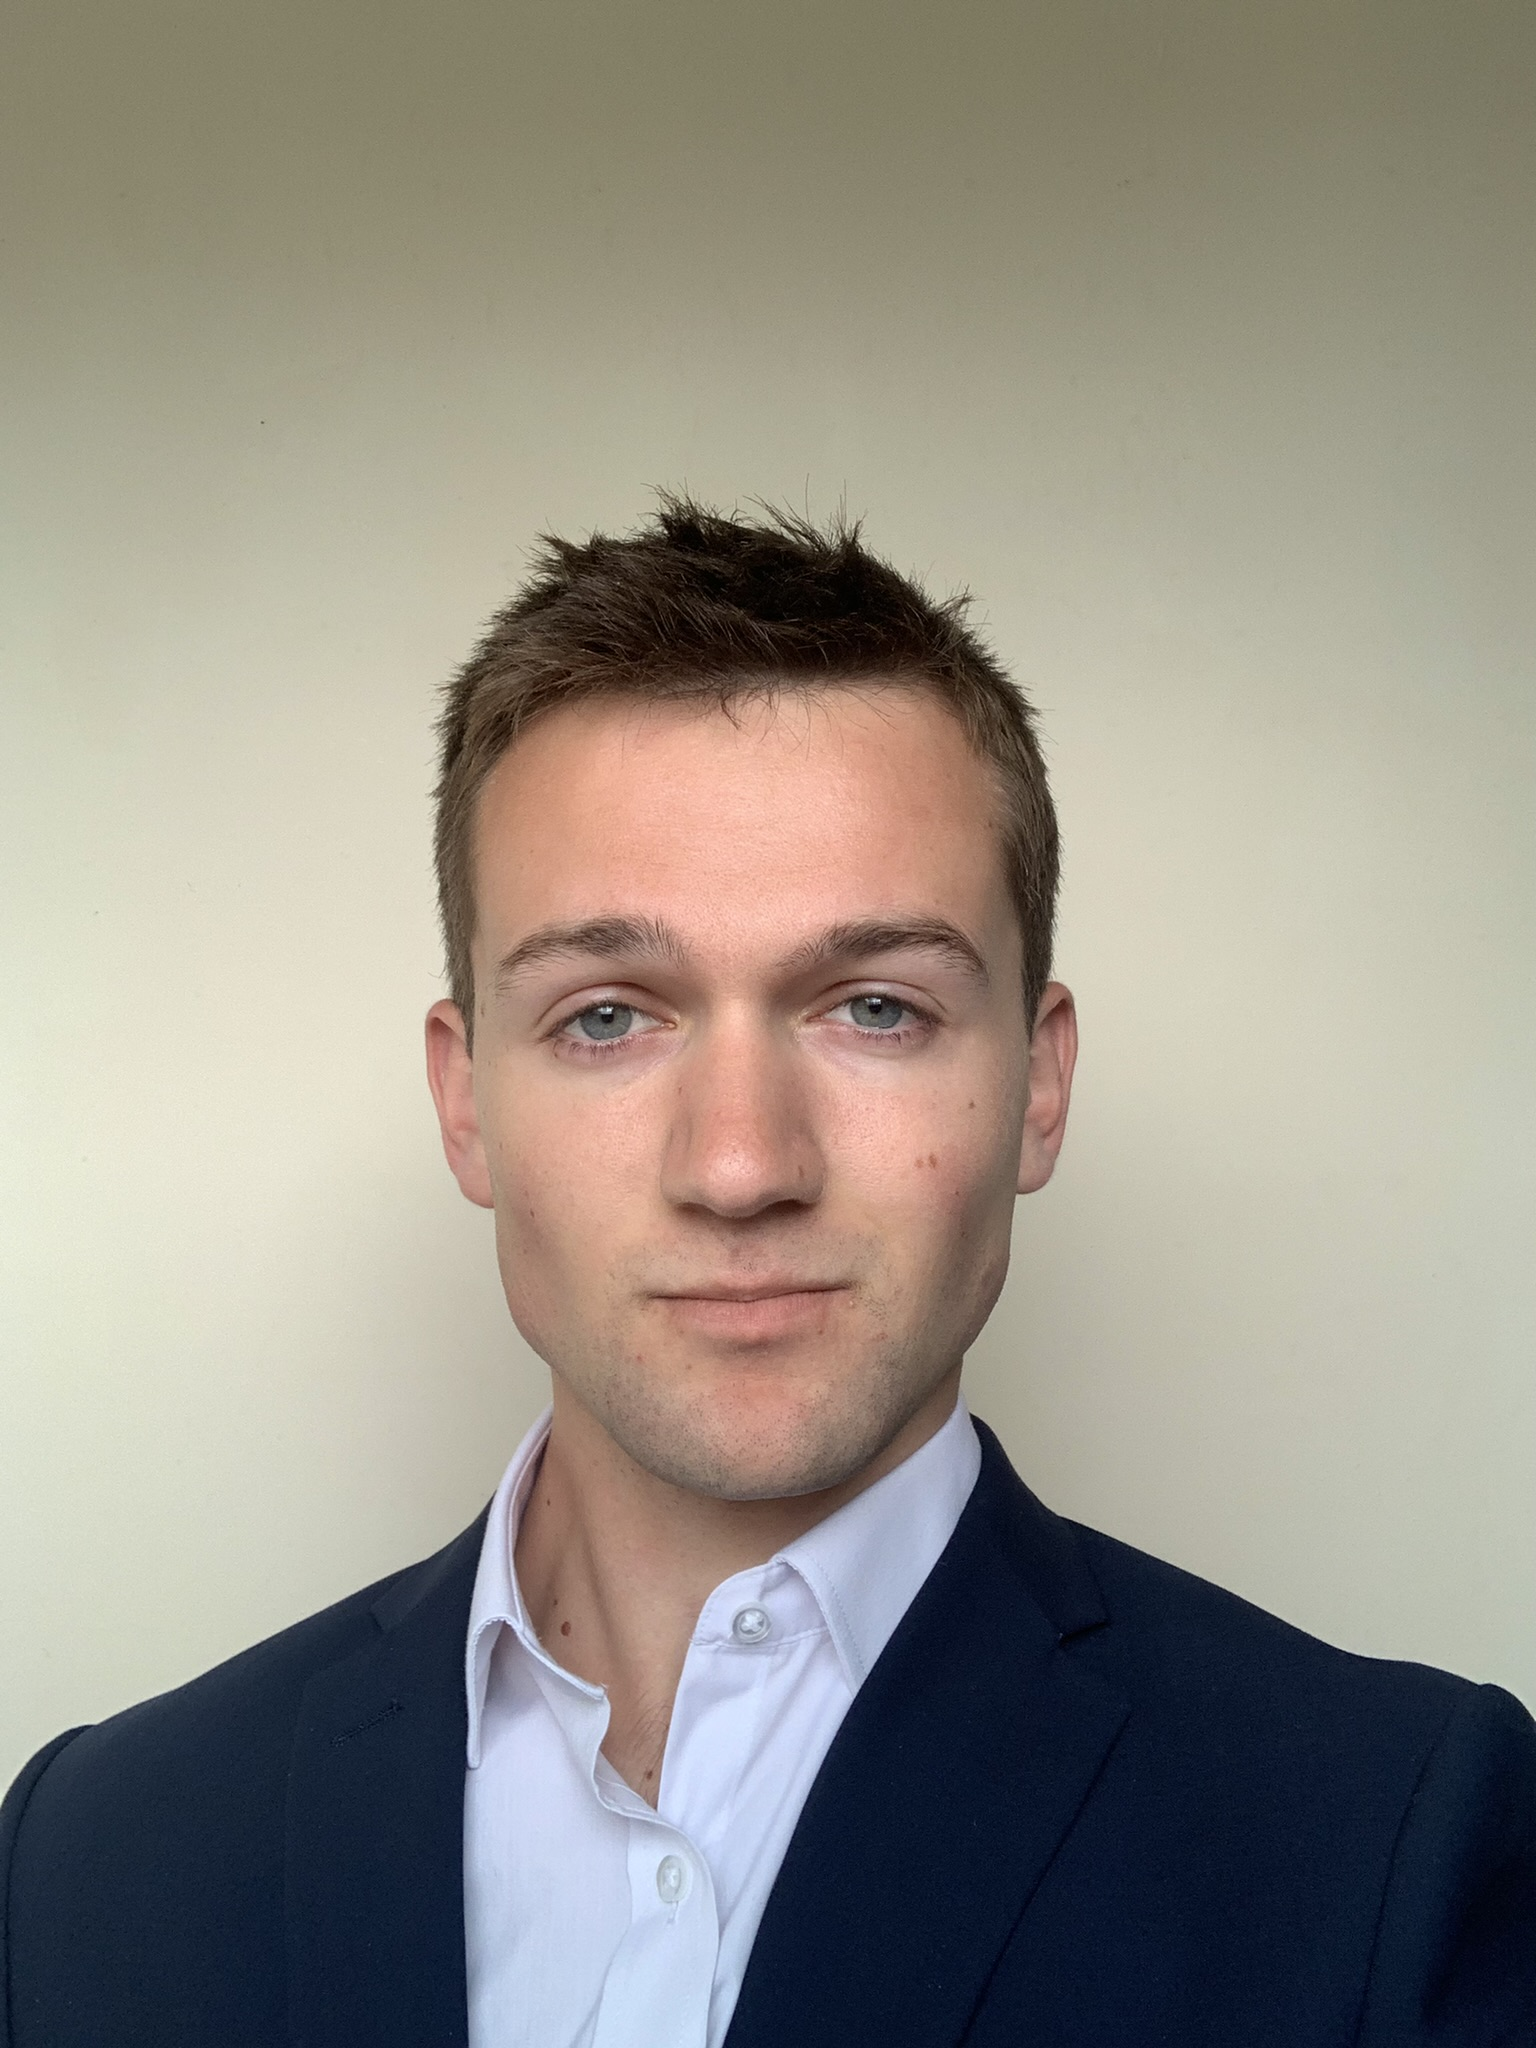
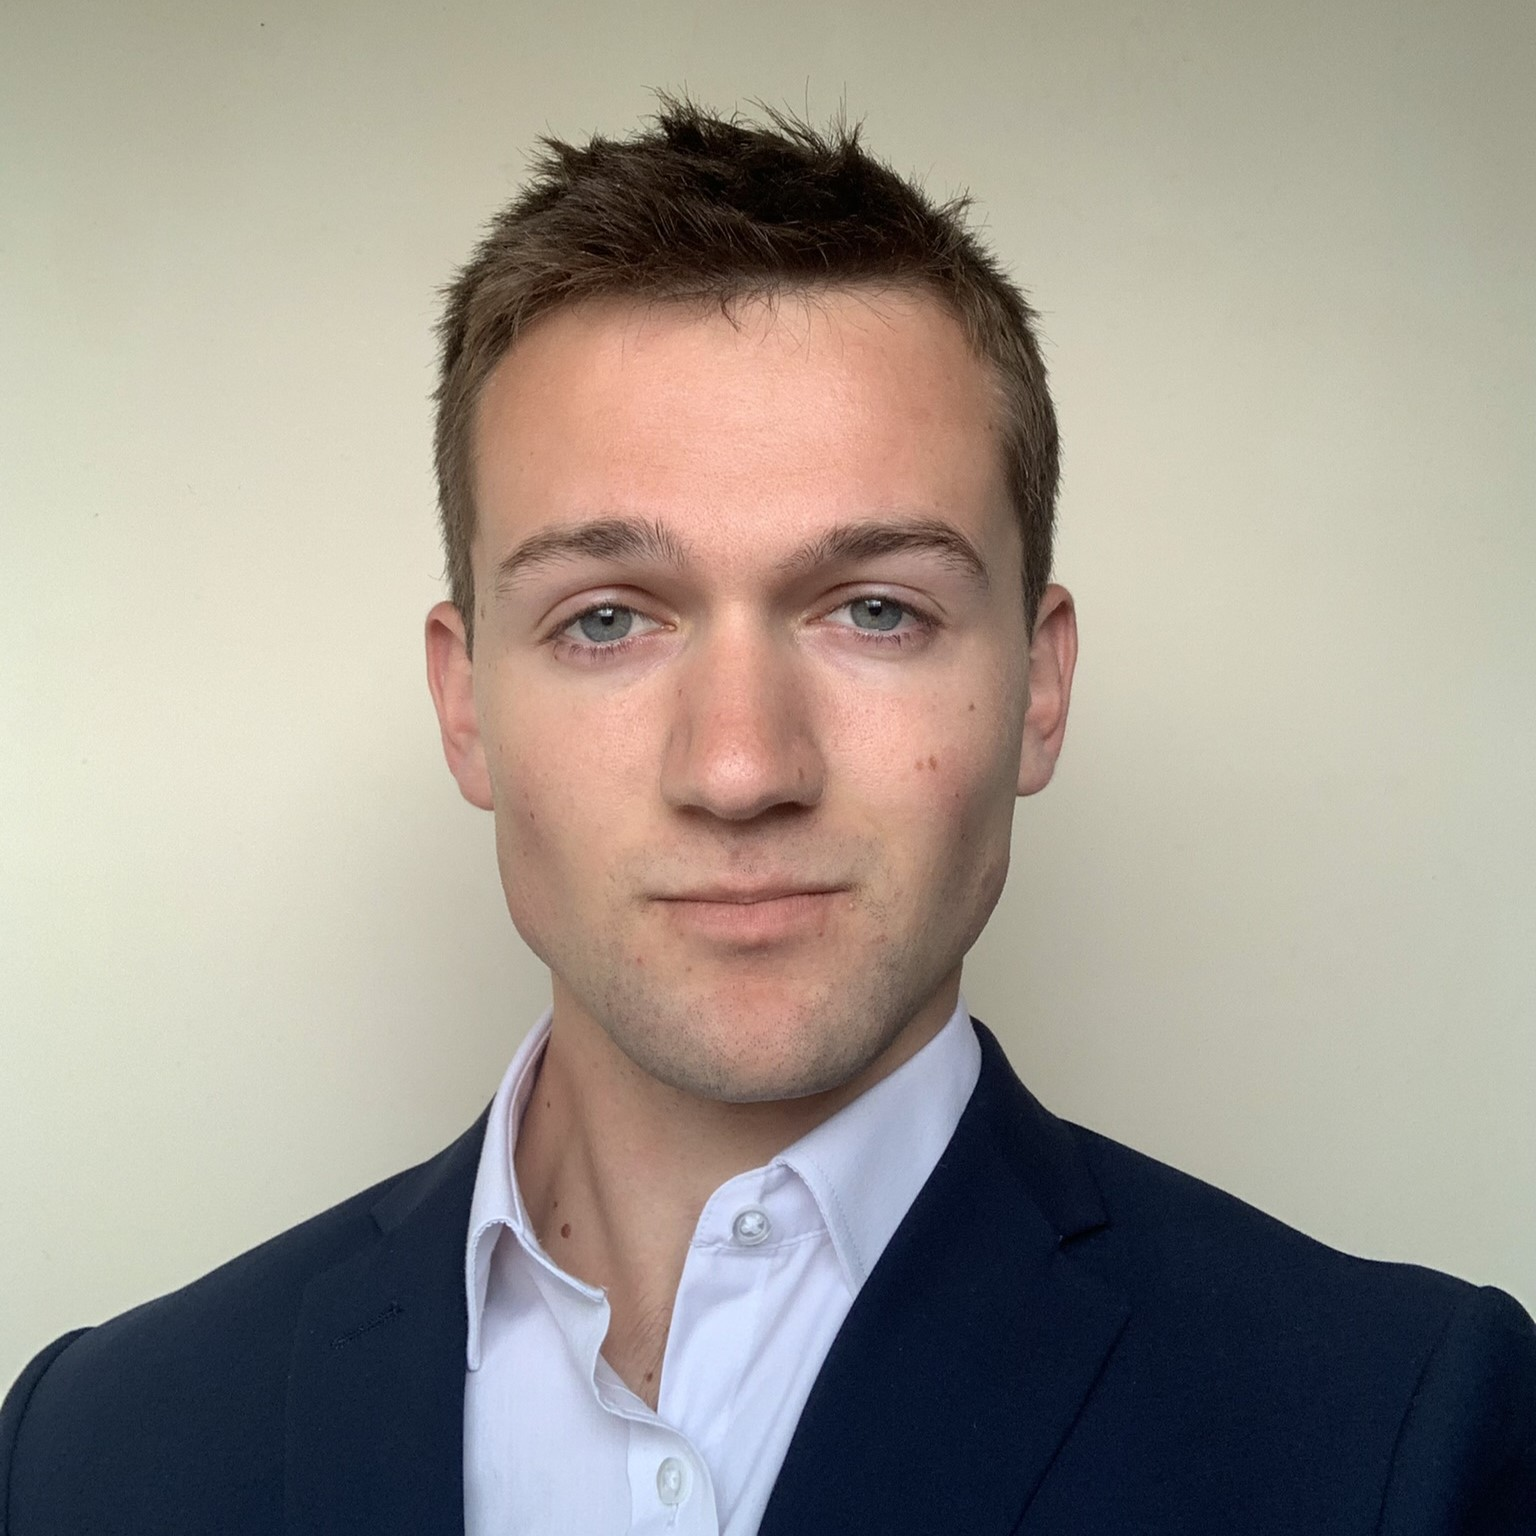
update

diff --git a/src/lib/Components/SocialMediaTags.svelte b/src/lib/Components/SocialMediaTags.svelte
@@ -1,13 +1,26 @@
 <script>
-	let size = 75;
+	let size =55;
 	let pad = 5;
+	let border = 4;
 </script>
 
-<div class="max-w-screen-2xl mx-auto">
+<div class="
+max-w-screen-sm 
+mx-auto 
+border-ridge
+border-r-{border}
+border-l-{border}
+border-t-{border}
+rounded-tr-full 
+rounded-tl-full
+bg-slate-200
+border-slate-700
+
+">
 
     <div class="flex items-center justify-center">
 	<a href="https://www.instagram.com/reuben.gibbons/?hl=en" class="p-{pad}">
-		<svg class="hover:animate-bounce" xmlns="http://www.w3.org/2000/svg" viewBox="0 0 3364.7 3364.7" width={size} height={size}
+		<svg xmlns="http://www.w3.org/2000/svg" viewBox="0 0 3364.7 3364.7" width={size} height={size}
 			><defs
 				><radialGradient id="0" cx="217.76" cy="3290.99" r="4271.92" gradientUnits="userSpaceOnUse"
 					><stop offset=".09" stop-color="#fa8f21" /><stop
@@ -36,8 +49,8 @@
 	<a
 		href="https://uk.linkedin.com/in/reuben-gibbons-5426a4149?trk=people-guest_people_search-card"
 		class="p-{pad}"
-	>
-		<svg class="hover:animate-bounce" height={size} width={size} xmlns="http://www.w3.org/2000/svg" viewBox="0 0 256 256"
+		>
+		<svg height={size} width={size} xmlns="http://www.w3.org/2000/svg" viewBox="0 0 256 256"
 			><g fill="none"
 				><path
 					d="M0 18.338C0 8.216 8.474 0 18.92 0h218.16C247.53 0 256 8.216 256 18.338v219.327C256 247.79 247.53 256 237.08 256H18.92C8.475 256 0 247.791 0 237.668V18.335z"
@@ -56,22 +69,19 @@
 			width={size}
 			height={size}
 			viewBox="126.445 2.281 589 589"
-			class="hover:animate-bounce"
 			><circle cx="420.945" cy="296.781" r="294.5" fill="#3c5a9a" /><path
 				d="M516.704 92.677h-65.239c-38.715 0-81.777 16.283-81.777 72.402.189 19.554 0 38.281 0 59.357H324.9v71.271h46.174v205.177h84.847V294.353h56.002l5.067-70.117h-62.531s.14-31.191 0-40.249c0-22.177 23.076-20.907 24.464-20.907 10.981 0 32.332.032 37.813 0V92.677h-.032z"
 				fill="#fff"
 			/></svg
 		>
 	</a>
-    <a href="https://github.com/BurwickGibbons" class="p-{pad}">
-        <svg class="hover:animate-bounce" height={size} width= {size} role="img" viewBox="0 0 24 24" xmlns="http://www.w3.org/2000/svg"><title>GitHub</title><path d="M12 .297c-6.63 0-12 5.373-12 12 0 5.303 3.438 9.8 8.205 11.385.6.113.82-.258.82-.577 0-.285-.01-1.04-.015-2.04-3.338.724-4.042-1.61-4.042-1.61C4.422 18.07 3.633 17.7 3.633 17.7c-1.087-.744.084-.729.084-.729 1.205.084 1.838 1.236 1.838 1.236 1.07 1.835 2.809 1.305 3.495.998.108-.776.417-1.305.76-1.605-2.665-.3-5.466-1.332-5.466-5.93 0-1.31.465-2.38 1.235-3.22-.135-.303-.54-1.523.105-3.176 0 0 1.005-.322 3.3 1.23.96-.267 1.98-.399 3-.405 1.02.006 2.04.138 3 .405 2.28-1.552 3.285-1.23 3.285-1.23.645 1.653.24 2.873.12 3.176.765.84 1.23 1.91 1.23 3.22 0 4.61-2.805 5.625-5.475 5.92.42.36.81 1.096.81 2.22 0 1.606-.015 2.896-.015 3.286 0 .315.21.69.825.57C20.565 22.092 24 17.592 24 12.297c0-6.627-5.373-12-12-12"/></svg>
+    <a href="https://github.com/BurwickGibbons" class="p-{pad} hover:animate-bounce">
+        <svg height={size} width= {size} role="img" viewBox="0 0 24 24" xmlns="http://www.w3.org/2000/svg"><title>GitHub</title><path d="M12 .297c-6.63 0-12 5.373-12 12 0 5.303 3.438 9.8 8.205 11.385.6.113.82-.258.82-.577 0-.285-.01-1.04-.015-2.04-3.338.724-4.042-1.61-4.042-1.61C4.422 18.07 3.633 17.7 3.633 17.7c-1.087-.744.084-.729.084-.729 1.205.084 1.838 1.236 1.838 1.236 1.07 1.835 2.809 1.305 3.495.998.108-.776.417-1.305.76-1.605-2.665-.3-5.466-1.332-5.466-5.93 0-1.31.465-2.38 1.235-3.22-.135-.303-.54-1.523.105-3.176 0 0 1.005-.322 3.3 1.23.96-.267 1.98-.399 3-.405 1.02.006 2.04.138 3 .405 2.28-1.552 3.285-1.23 3.285-1.23.645 1.653.24 2.873.12 3.176.765.84 1.23 1.91 1.23 3.22 0 4.61-2.805 5.625-5.475 5.92.42.36.81 1.096.81 2.22 0 1.606-.015 2.896-.015 3.286 0 .315.21.69.825.57C20.565 22.092 24 17.592 24 12.297c0-6.627-5.373-12-12-12"/></svg>
     </a>
 
     </div>
 </div>
 
 <style lang="postcss">
-	a:hover{ 
-		animation-delay: 1s;
-	}
+	
 </style>

diff --git a/src/lib/Components/Sidebar.svelte b/src/lib/Components/Sidebar.svelte
@@ -16,16 +16,16 @@
 </script>
 
 <aside
-	class="absolute w-full h-full bg-zinc-200 border-r-2 shadow-lg z-20 rounded-tr-lg "
+	class="absolute w-1/4 h-full border-r-2 shadow-lg z-20 "
 	class:open
 >
-	<div class="w-[110%] h-20 bg-slate-700 shadow-lg z-20 rounded-br-full" class:open />
+	<div class="w-[103.5%] h-20 shadow-md z-20 rounded-br-md border-r-8" class:open />
 	{#key open}
 		<nav class="p-5 px-20">
 			{#each links as { href, title }, index}
 				<a
-					in:fly={{ x: -200, duration: 200, delay: 200 + index * 200 }}
-					class="py-2 block"
+					in:fly={{ x: -200, duration: 200, delay: 500 + index * 200 }}
+					class="py-3 block"
 					{href}
 					on:click={() => (open = false)}>{title}</a
 				>
@@ -37,23 +37,34 @@
 <style lang="postcss">
 	a {
 		@apply text-2xl;
+		@apply translate-x-0;
 		@apply text-slate-700;
-		transition: font 0.5s;
+		transition: 500ms;
+		
+		
+		
 	}
 
 	a:hover {
 		@apply font-bold;
 		@apply text-slate-900;
-		@apply text-3xl;
+		@apply translate-x-5;
+		
 	}
 
 	aside {
 		left: -120%;
-		transition: left 0.5s ease-in-out;
+		transition: left .5s ease-in-out;
+		@apply bg-slate-200;
+		@apply border-slate-700;
+		
 	}
 	div {
 		left: -100%;
-		transition: left 0.5s ease-in;
+		transition: left .5s ease-in;
+		@apply bg-slate-700;
+		@apply border-slate-700;
+		
 	}
 
 	.open {

diff --git a/src/lib/Components/BackgroundPano.svelte b/src/lib/Components/BackgroundPano.svelte
@@ -10,27 +10,24 @@
 			alt="..."
 			class="shadow-2xl object-cover w-full border-b-4 border-slate-700"
 		/>
-		<h1
-			class="absolute top-2 text-xl sm:top-2 sm:text-2xl md:top-6 md:text-3xl lg:top-12 lg:text-5xl xl:top-16 xl:-text-5xl text-center"
-		>
-			Welcome to my Website!
-		</h1>
-
+		
 		<div>
 			<img
-				src="/ProfilePicFinal.png"
+				src="/ProfilePicFinal.JPEG"
 				alt="..."
-				class=" w-1/2 h-1/2 -translate-y-1/2 border-4 border-slate-700 hover:scale-105 duration-300"
+				class="center w-1/2 h-1/2 -translate-y-1/2  rounded-full border-4 border-slate-700 hover:scale-105 duration-300"
 			/>
 		</div>
 	</div>
 </div>
 
 <style lang="postcss">
-	h1 {
-		@apply text-slate-100;
-		@apply underline;
-		@apply font-title;
+
+	.center {
+		display: block;
+		margin-left: auto;
+		margin-right: auto;
+		width: 25%;
 	}
 
 </style>

diff --git a/src/routes/index.svelte b/src/routes/index.svelte
@@ -1,11 +1,27 @@
 <script>
 	import SocialMediaTags from '$lib/Components/SocialMediaTags.svelte';
 	import BackgroundPano from '$lib/Components/BackgroundPano.svelte';
+	import HomeDesc from '$lib/Components/HomeDesc.svelte';
+	
 
 </script>
 
 <title>Home</title>
 
-<div class="relative">
+<div 
+class="relative"
+>
 	<BackgroundPano />
 </div>
+
+
+<div
+class="relative"
+>
+	<HomeDesc />
+</div>
+
+<footer class="absolute left-0 bottom-0 right-0 scale-50 sm:scale-100">
+	<SocialMediaTags />
+</footer>
+

diff --git a/src/lib/Components/Hamburger.svelte b/src/lib/Components/Hamburger.svelte
@@ -33,19 +33,23 @@
 
 	.open svg {
 		@apply scale-105;
+	
 	}
 
 	.open #top {
 		transform: translate(6px, 0px) rotate(45deg);
-		@apply text-white;
+		@apply text-slate-200;
+	
 	}
 
 	.open #middle {
 		opacity: 0;
+		
 	}
 
 	.open #bottom {
 		transform: translate(-12px, 9px) rotate(-45deg);
-		@apply text-white;
+		@apply text-slate-200;
+	
 	}
 </style>

diff --git a/src/routes/__layout.svelte b/src/routes/__layout.svelte
@@ -16,16 +16,13 @@
 
 <slot />
 
-
-<footer class="absolute left-0 bottom-0 right-0 scale-50 sm:scale-100">
-	<SocialMediaTags />
-</footer>
+<footer />
 
 <style lang="postcss">
 	:global(body) {
     @apply h-full;
 		/* background-color:rgb(243, 243, 243); */
-		@apply bg-zinc-100;
+		@apply bg-zinc-500;
 		padding: 0;
 		@apply font-informal;
 	}

diff --git a/src/lib/Components/Navbar.svelte b/src/lib/Components/Navbar.svelte
@@ -6,7 +6,7 @@
 	export let sidebar = false;
 </script>
 
-<header class="z-20 flex justify-between bg-zinc-200 items-center shadow-lg">
+<header class="z-20 flex justify-between bg-slate-200 items-center border-b-4 border-slate-700 shadow-lg">
 	<nav class="flex z-20">
 		<Hamburger bind:open={sidebar} />
 	</nav>

diff --git a/src/lib/Components/HomeDesc.svelte b/src/lib/Components/HomeDesc.svelte
@@ -1,0 +1,5 @@
+<div class="absolute">
+<p1>
+    Welcome to my website! Thi has been a passion project, demonstrating my ability to code css, JS, and HTML. 
+</p1>
+</div>
